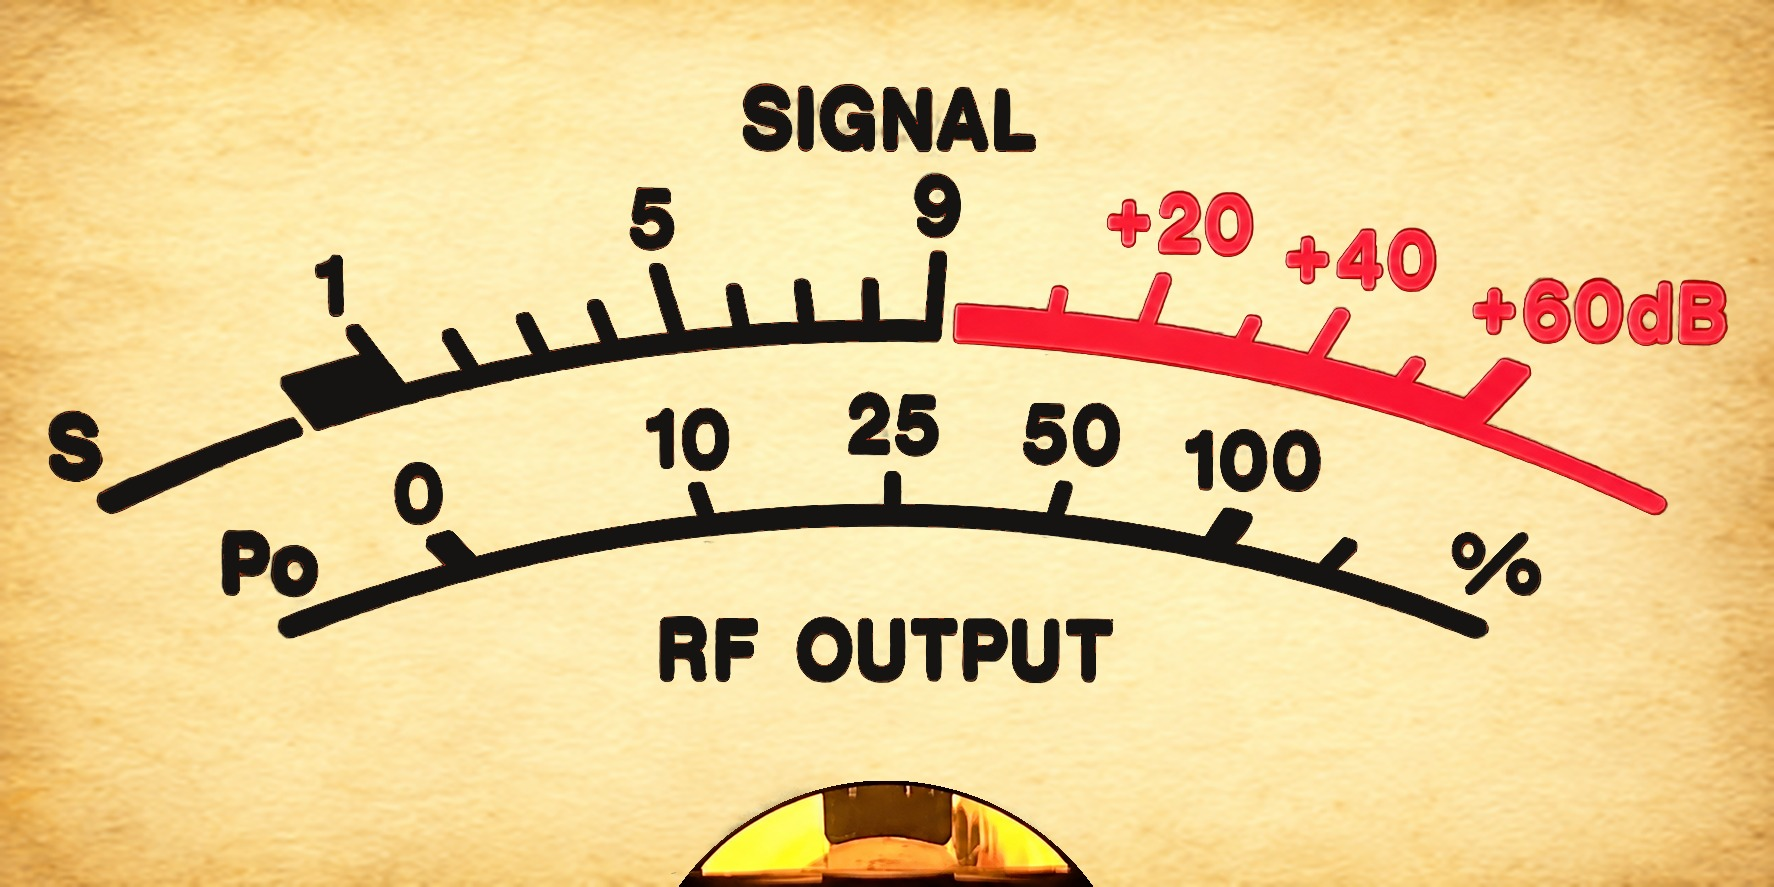
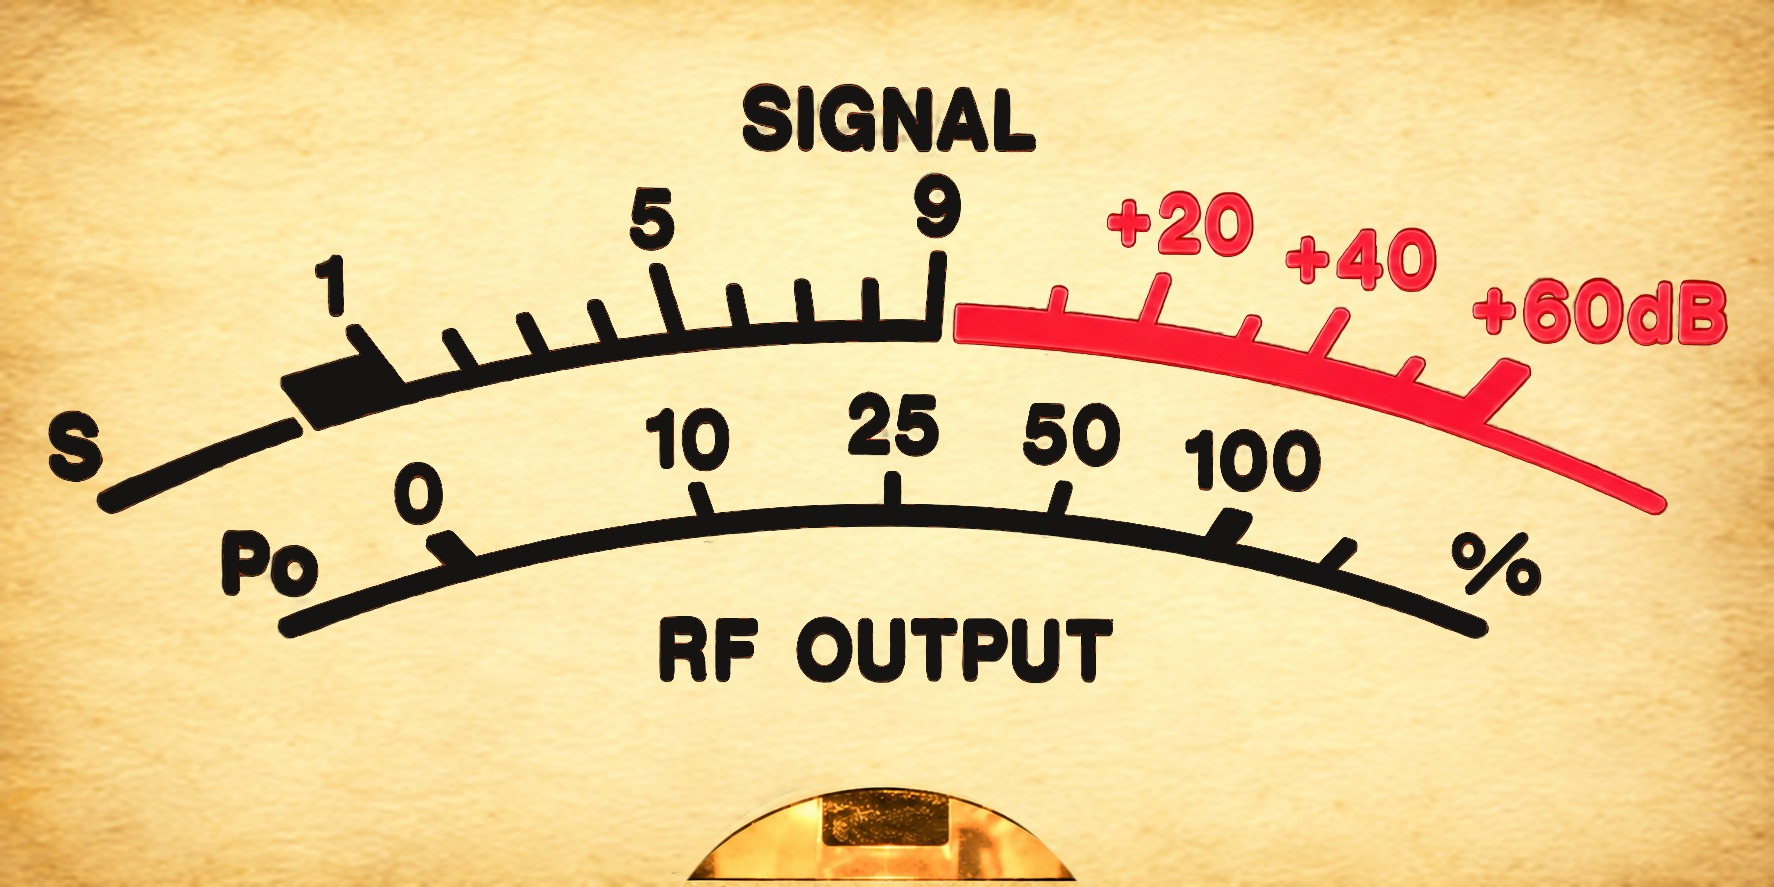
Build 817: light Icom face lamp window from operator's picture
Claude-Session: https://claude.ai/code/session_014B7W2PV3cZYAACnQktpYXS

Changed region(s): [[0.372, 0.8828, 0.6201, 1.0]]

diff --git a/src/gui/SMeterWidget.cpp b/src/gui/SMeterWidget.cpp
@@ -215,8 +215,9 @@ constexpr AnglePoint kPoAngles[] = {    // per cent of the rated power -> angle
 };
 
 // Build 816 (operator, 27.11): the light picture is the dark photo itself,
-// recoloured (black -> old paper, the lit amber -> printing ink, red and the
-// lamp window as they were), so it shares the geometry above.
+// recoloured (black -> old paper, the lit amber -> printing ink, red as it
+// was; build 817: the lamp window from the operator's redrawn picture), so it
+// shares the geometry above.
 
 struct PhotoFace {
     const char* resource;

diff --git a/src/core/ForkBuild.h b/src/core/ForkBuild.h
@@ -4,4 +4,4 @@
 // 03.11). The build number is the ANAN port delivery ("anan154" = build 154);
 // raise it with every delivery.
 #define AETHER_FORK_NAME "Ater-ugly_fork"
-#define AETHER_FORK_BUILD 816
+#define AETHER_FORK_BUILD 817

diff --git a/docs/anan100d-port-journal.md b/docs/anan100d-port-journal.md
@@ -13891,6 +13891,15 @@ PS — оператор снял (вход ответвителя без PS не
 - Правый клик по S-метру: при включённом Icom-метре (View → Appearance → Meters) раздел «Face» с пунктами Light / Dark вместо рисованных тем; при выключенном — прежний «Face theme». Отдельный пункт «Use Icom Vintage Meter» в правом клике убран (включение — в Appearance).
 - Прерванная запись первого варианта 816 на машину оператора перезаписана.
 
+### Сборка 817 — светлая шкала Icom: глазок из картинки оператора
+
+- `resources/meterfaces/vintage-s-meter-light.jpg`: нижнее окошко лампы заменено окошком из картинки, которую прислал оператор. Старое окошко с фото (круг 885.5/1036, r 262, y ≥ 760) закрашено бумажной текстурой. Новое вставлено кругом с центром (881.1, 1020) и радиусом 241, край мягкий (2.5 px). Остальная шкала та же, что в 816.
+- `resources/meterfaces/README.md`: в строке о светлом варианте указано, что окошко лампы взято из перерисованной картинки оператора.
+- `src/gui/SMeterWidget.cpp`: обновлён только комментарий. Геометрия стрелки не менялась: ось (885.5, 1051.9), длина 944, те же таблицы углов.
+- `ForkBuild.h`: 817.
+
+Не проверено на радио, не собиралось под Windows.
+
 ## 5. Где брать удалённый код
 
 Всё удалённое есть в теге `v26.10.4` на GitHub (`aethersdr/AetherSDR`) и в резервной копии

diff --git a/resources/meterfaces/README.md b/resources/meterfaces/README.md
@@ -274,7 +274,8 @@ product logo or copied face artwork.
   distributed under the same licence (CC BY-SA 4.0). The needle is drawn by the program
   (`SMeterWidget::paintPhotoFace`).
 - `vintage-s-meter-light.jpg` (build 816): the same photo recoloured (black -> an old-paper
-  texture, the amber markings -> black, red and the lamp window unchanged) -- an adaptation,
+  texture, the amber markings -> black, red unchanged; the lamp window from a redrawn
+  picture supplied by the operator) -- an adaptation,
   so under the same licence (CC BY-SA 4.0), with the same attribution.
 - ICOM is a trademark of Icom Inc.; no ICOM name or logo appears in the picture, and the
   program is not affiliated with or endorsed by Icom Inc. or the photographer.
